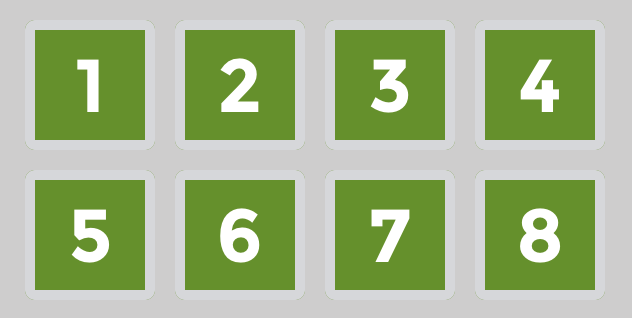
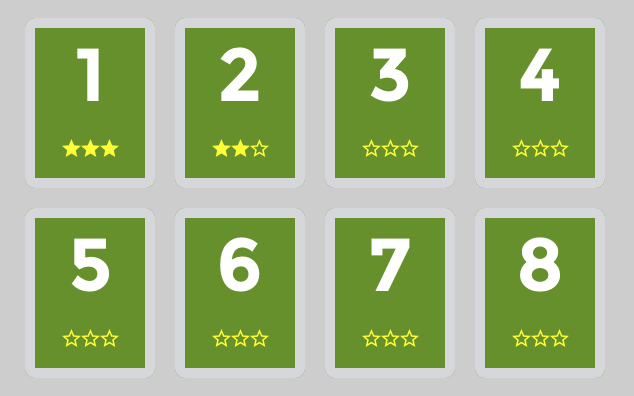
code cleanup

diff --git a/app/components/LevelPicker.js b/app/components/LevelPicker.js
@@ -51,8 +51,7 @@ class LevelPicker extends React.Component {
                 <View style={styles.innerCell}>
                     <Text style={styles.cellText}>{level}</Text>
                     <View style={styles.ratingBox}>
-                        {rating.length > 0 ?
-                            rating.map((elem, ratingKey) => LevelPicker.getRatingStar(elem, ratingKey)) : null}
+                        {rating.map((elem, ratingKey) => LevelPicker.getRatingStar(elem, ratingKey))}
                     </View>
                 </View>
             </TouchableHighlight>
@@ -60,6 +59,9 @@ class LevelPicker extends React.Component {
             <View key={key} style={styles.cellDisabled} >
                 <View style={styles.innerCell}>
                     <Text style={styles.cellText}>{level}</Text>
+                    <View style={styles.ratingBox}>
+                        {rating.map((elem, ratingKey) => LevelPicker.getRatingStar(elem, ratingKey))}
+                    </View>
                 </View>
             </View>
         );

diff --git a/app/components/styles/LevelPickerStyles.js b/app/components/styles/LevelPickerStyles.js
@@ -119,6 +119,7 @@ export default StyleSheet.create({
         alignItems: 'center',
     },
     star: {
-        color: 'yellow',
+        color: 'white',
+        fontSize: 13,
     },
 });
